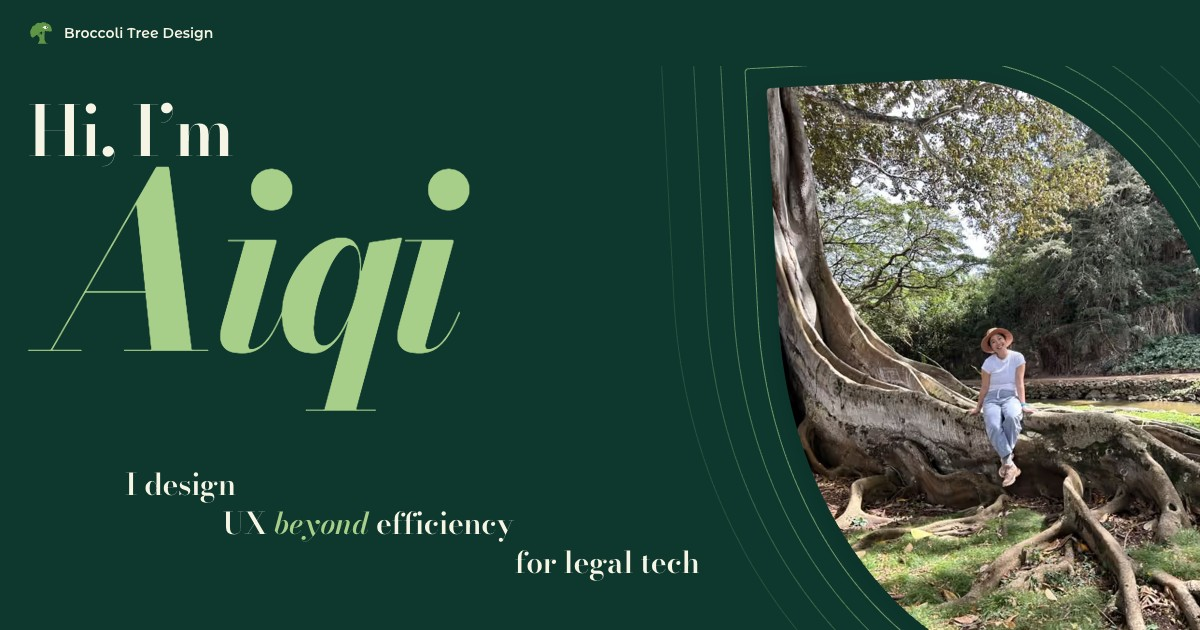
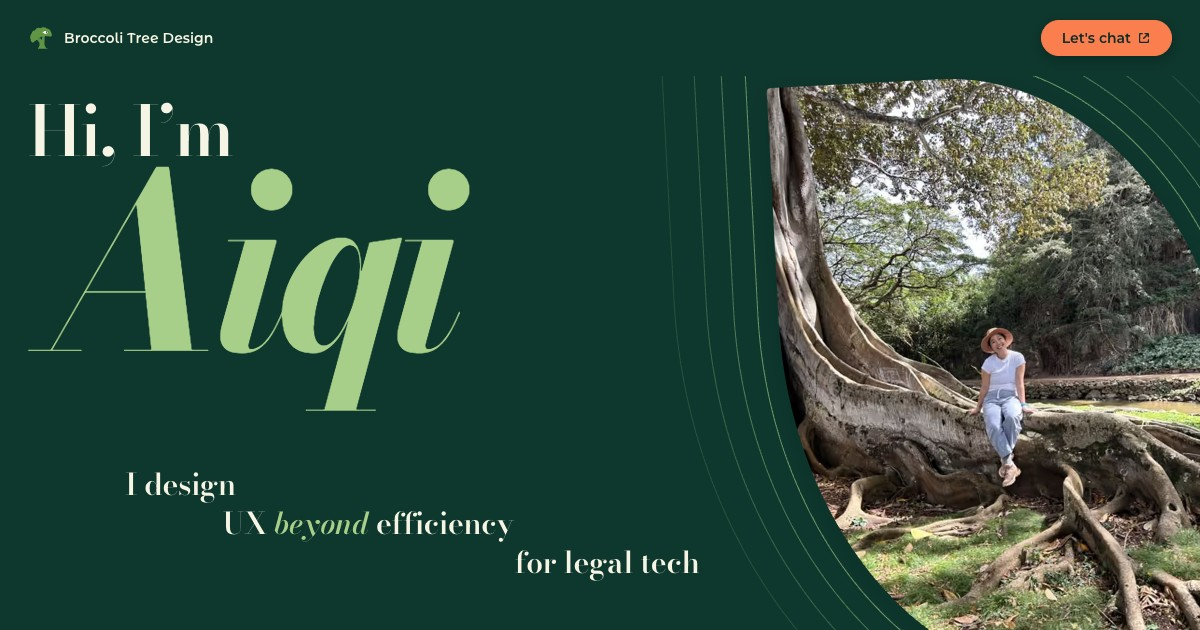
Add a touch of orange to the LinkedIn cover and share images
One cover bud in orange-400 (new linkedinCover.warmBud token); the share
capture keeps the Let's chat button.

Changed region(s): [[0.0308, 0.0302, 0.185, 0.0905], [0.8633, 0.0302, 0.9867, 0.0905]]

diff --git a/brand/README.md b/brand/README.md
@@ -31,7 +31,7 @@ npm run brand
 | `public/logo.png` | The bare logo at 512px, transparent; named in the structured data |
 | `exports/logo-dark.png`, `logo-light.png` | 1024 × 1024 tiles on the dark and light grounds |
 | `exports/logo-dark.gif`, `logo-light.gif` | 512 × 512, 5s loop: the eye glances left, right, back, then blinks, as `EyeTracker.tsx` moves it on the site |
-| `exports/linkedin-company-cover.png`, `.svg` | The company page cover, 2256 × 382 (LinkedIn's 1128 × 191 at 2×): the vine with connector leaves, buds and the logo's eye |
+| `exports/linkedin-company-cover.png`, `.svg` | The company page cover, 2256 × 382 (LinkedIn's 1128 × 191 at 2×): the vine with connector leaves, buds (one in `warmBud` orange) and the logo's eye |
 | `guidelines/DESIGN.md` | The palette, roles, contrast and logo blocks |
 
 It also checks every pair in `tokens.json` → `contrast` on both themes and
@@ -41,7 +41,7 @@ graphics), so a colour change can't quietly break legibility.
 ## Share images
 
 `app/opengraph-image.jpg` and `twitter-image.jpg` are 1200 × 630 captures of
-the hero (nav links and button hidden), so they need the site running. After
+the hero (nav links hidden; the logo and the orange Let's chat button stay), so they need the site running. After
 a colour or logo change:
 
 ```sh
